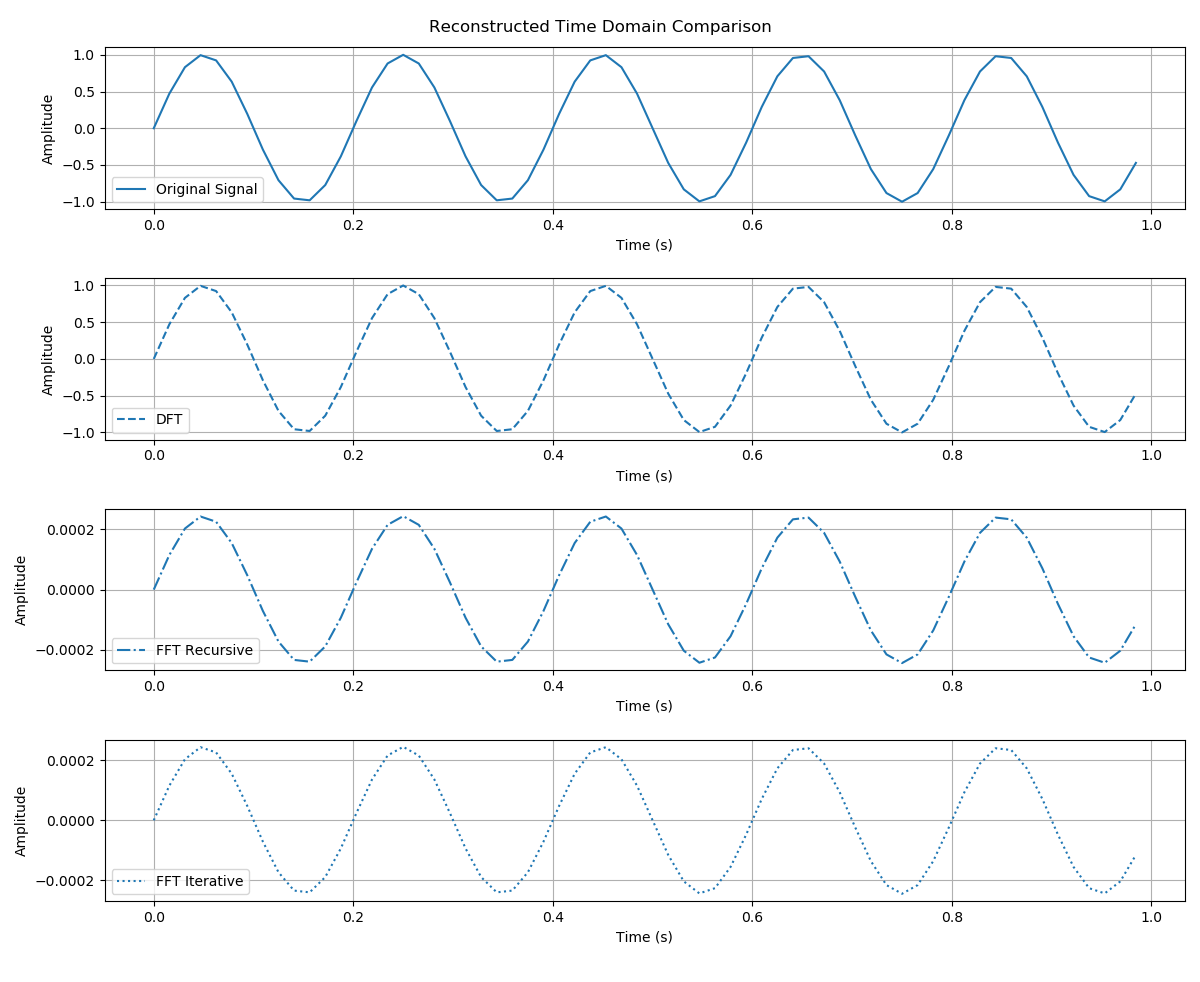
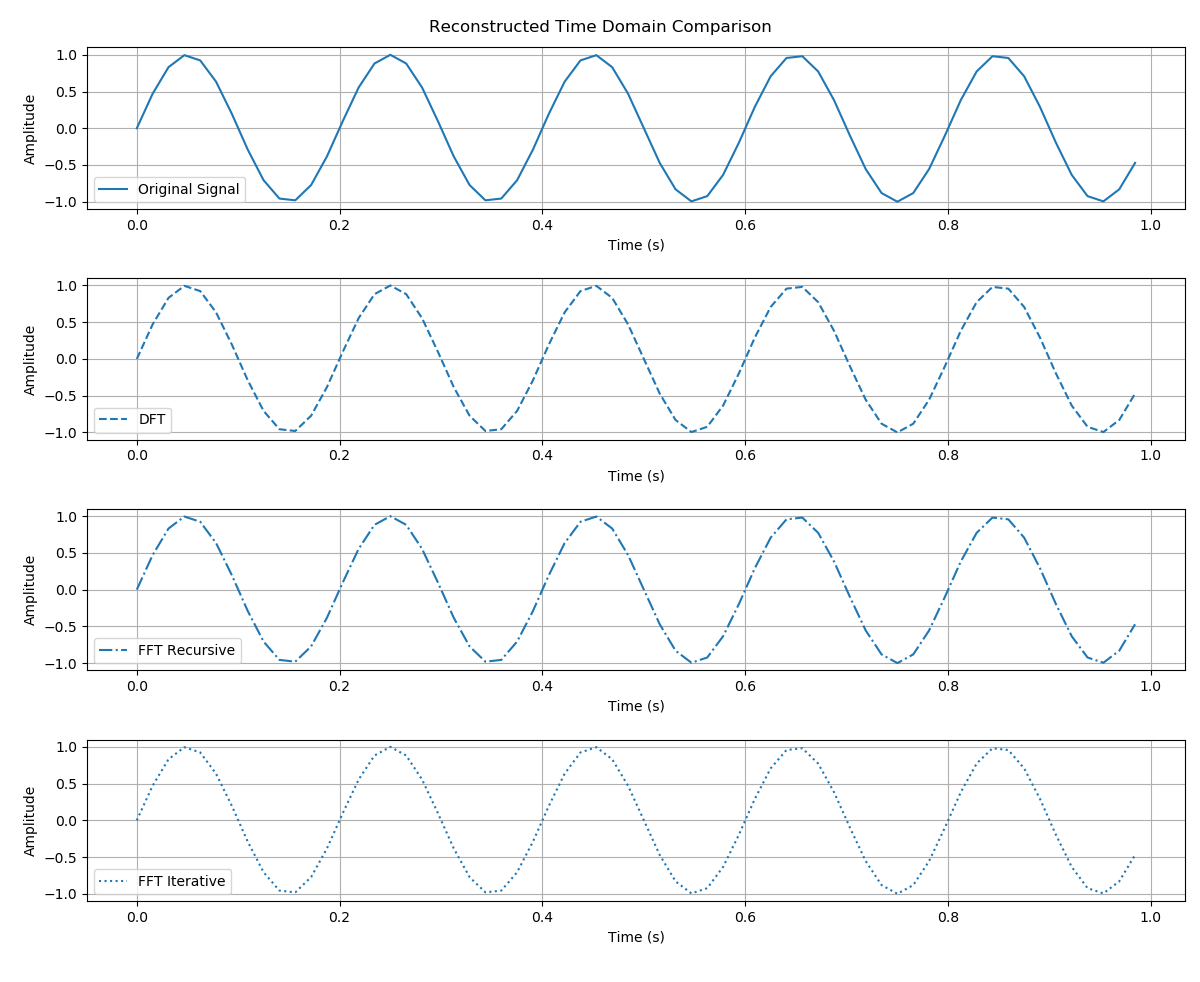
Relevant Changes

diff --git a/vis_dft_fft_simmiliar.py b/vis_dft_fft_simmiliar.py
@@ -11,11 +11,10 @@ def generate_signal(frequency, duration, sampling_rate):
 
 def ifft_from_fft(fft_result):
     """
-    Perform the Inverse FFT (IFFT) using the FFT results.
-    This assumes normalization by the length of the input signal.
+    Perform the Inverse FFT (IFFT) using the implemented FFT results.
     """
     n = len(fft_result)
-    return np.conj(fft_recursive(np.conj(fft_result))) / n
+    return fft_recursive(fft_result, inverse=True)
 
 def test_dft_fft_commonalities():
     # Signal parameters
